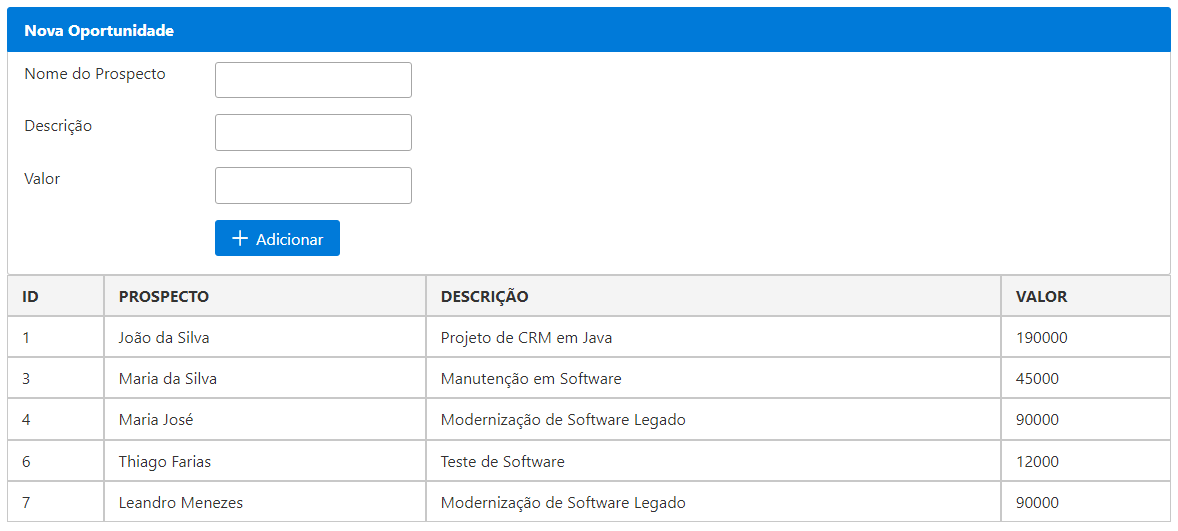
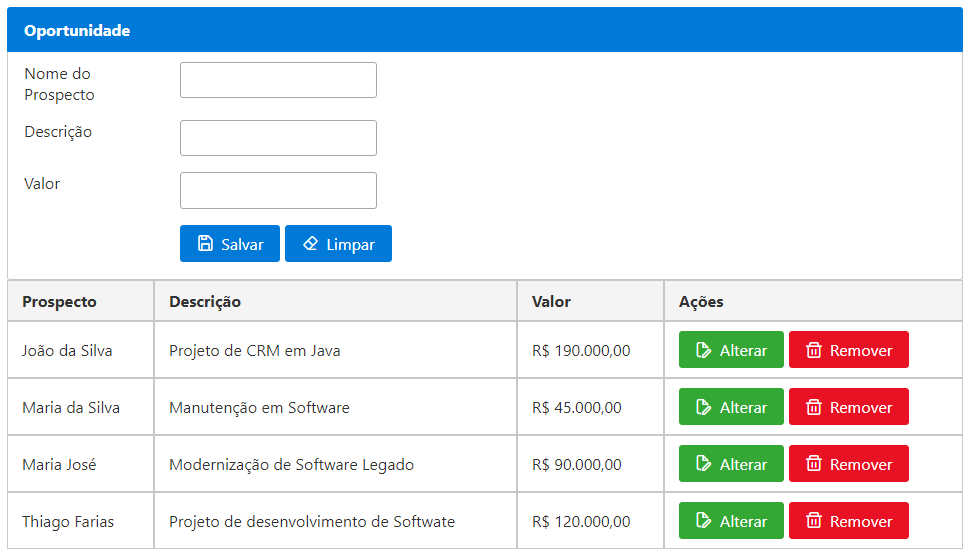
Implementação das ações de alterar, excluir (sem alerta) e limpar, além da formatação de valores monentários.

diff --git a/comercial-ui/src/app/painel-negociacao/painel-negociacao.component.ts b/comercial-ui/src/app/painel-negociacao/painel-negociacao.component.ts
@@ -27,26 +27,69 @@ export class PainelNegociacaoComponent implements OnInit {
 		);
 	}
 
-	public adicionar() {
-		this.oportunidadeService.adicionar(this.oportunidade).subscribe(() => {
+	public alterar(oprtnd: any) {
+		this.oportunidade = oprtnd;
+	}
+
+	public remover(id: number) {
+		this.oportunidadeService.remover(id).subscribe(() => {
 			this.messageService.add({
 				severity: "success",
-				summary: "Oportunidade adicionada com sucesso!"
+				summary: "Oportunidade excluída com sucesso!"
 			});
 			
-			this.oportunidade = {};
+			this.limpar();
 			this.consultar();
-		}, onError => {
-			let msgError = "Erro inesperado. Contate o suporte técnico!"
-			
-			if (onError.error.message) {
-				msgError = onError.error.message;
-			}
-
-			this.messageService.add({
-				severity: "error",
-				summary: msgError
-			});
 		});
+	}
+
+	public limpar() {
+		this.oportunidade = {}
+	}
+
+	public salvar() {
+		if (this.oportunidade.id) {
+			this.oportunidadeService.alterar(this.oportunidade).subscribe(() => {
+				this.messageService.add({
+					severity: "success",
+					summary: "Oportunidade alterada com sucesso!"
+				});
+				
+				this.limpar();
+				this.consultar();
+			}, onError => {
+				let msgError = "Erro inesperado. Contate o suporte técnico!"
+				
+				if (onError.error.message) {
+					msgError = onError.error.message;
+				}
+	
+				this.messageService.add({
+					severity: "error",
+					summary: msgError
+				});
+			});
+		} else {
+			this.oportunidadeService.adicionar(this.oportunidade).subscribe(() => {
+				this.messageService.add({
+					severity: "success",
+					summary: "Oportunidade adicionada com sucesso!"
+				});
+				
+				this.limpar
+				this.consultar();
+			}, onError => {
+				let msgError = "Erro inesperado. Contate o suporte técnico!"
+				
+				if (onError.error.message) {
+					msgError = onError.error.message;
+				}
+	
+				this.messageService.add({
+					severity: "error",
+					summary: msgError
+				});
+			});
+		}
 	}
 }

diff --git a/comercial-ui/src/app/painel-negociacao/painel-negociacao.component.html b/comercial-ui/src/app/painel-negociacao/painel-negociacao.component.html
@@ -1,4 +1,4 @@
-<p-panel header="Nova Oportunidade">
+<p-panel header="Oportunidade">
     <div class="grid">
         <div class="col-2">Nome do Prospecto</div>
         <div class="col-10">
@@ -13,7 +13,8 @@
             <input type="text" pInputText [(ngModel)]="oportunidade.valor" />
         </div>
         <div class="col-10 col-offset-2">
-            <button pButton icon="pi pi-plus" label="Adicionar" type="submit" (click)="adicionar()"></button>
+            <button pButton icon="pi pi-save" label="Salvar" type="submit" (click)="salvar()" style="margin-right: 5px;" ></button>
+            <button pButton icon="pi pi-eraser" label="Limpar" type="submit" (click)="limpar()"></button>
         </div>
     </div>
 </p-panel>
@@ -21,18 +22,23 @@
 <p-table [value]="oportunidades">
     <ng-template pTemplate="header">
         <tr>
-            <th>ID</th>
-            <th>PROSPECTO</th>
-            <th>DESCRIÇÃO</th>
-            <th>VALOR</th>
+            <!--<th>ID</th>-->
+            <th>Prospecto</th>
+            <th>Descrição</th>
+            <th>Valor</th>
+            <th>Ações</th>
         </tr>
     </ng-template>
     <ng-template pTemplate="body" let-oportunidade>
         <tr>
-            <td>{{oportunidade.id}}</td>
+            <!--<td>{{oportunidade.id}}</td>-->
             <td>{{oportunidade.nomeProspecto}}</td>
             <td>{{oportunidade.descricao}}</td>
-            <td>{{oportunidade.valor}}</td>
+            <td>{{oportunidade.valor | currency : 'BRL'}}</td>
+            <td>
+                <button pButton icon="pi pi-file-edit" label="Alterar" title="Alterar oportunidade" class="p-button-success" type="button" (click)="alterar(oportunidade)" style="margin-right: 5px;"></button>
+                <button pButton icon="pi pi-trash" label="Remover" title="Remover oportunidade" class="p-button-danger" type="button" (click)="remover(oportunidade.id)"></button>
+            </td>
         </tr>
     </ng-template>
 </p-table>

diff --git a/comercial-ui/src/app/app.module.ts b/comercial-ui/src/app/app.module.ts
@@ -1,8 +1,10 @@
-import { NgModule } from '@angular/core';
+import { LOCALE_ID, NgModule } from '@angular/core';
 import { BrowserModule } from '@angular/platform-browser';
 import { FormsModule } from '@angular/forms';
 import { HttpClientModule } from '@angular/common/http';
 import { BrowserAnimationsModule } from '@angular/platform-browser/animations';
+import { registerLocaleData } from '@angular/common';
+import ptBr from '@angular/common/locales/pt';
 
 import { TableModule } from 'primeng/table';
 import { PanelModule } from 'primeng/panel';
@@ -14,23 +16,28 @@ import { MessageService } from 'primeng/api';
 import { AppComponent } from './app.component';
 import { PainelNegociacaoComponent } from './painel-negociacao/painel-negociacao.component';
 
+registerLocaleData(ptBr);
+
 @NgModule({
-  declarations: [
-    AppComponent,
-    PainelNegociacaoComponent
-  ],
-  imports: [
-    BrowserModule,
-    BrowserAnimationsModule,
-    FormsModule,
-    HttpClientModule,
-    TableModule,
-    PanelModule,
-    InputTextModule,
-    ButtonModule,
-    ToastModule
-  ],
-  providers: [MessageService],
-  bootstrap: [AppComponent]
+	declarations: [
+		AppComponent,
+		PainelNegociacaoComponent
+	],
+	imports: [
+		BrowserModule,
+		BrowserAnimationsModule,
+		FormsModule,
+		HttpClientModule,
+		TableModule,
+		PanelModule,
+		InputTextModule,
+		ButtonModule,
+		ToastModule
+	],
+	providers: [
+		MessageService,
+		{ provide: LOCALE_ID, useValue: 'pt' }
+	],
+	bootstrap: [AppComponent]
 })
 export class AppModule { }
